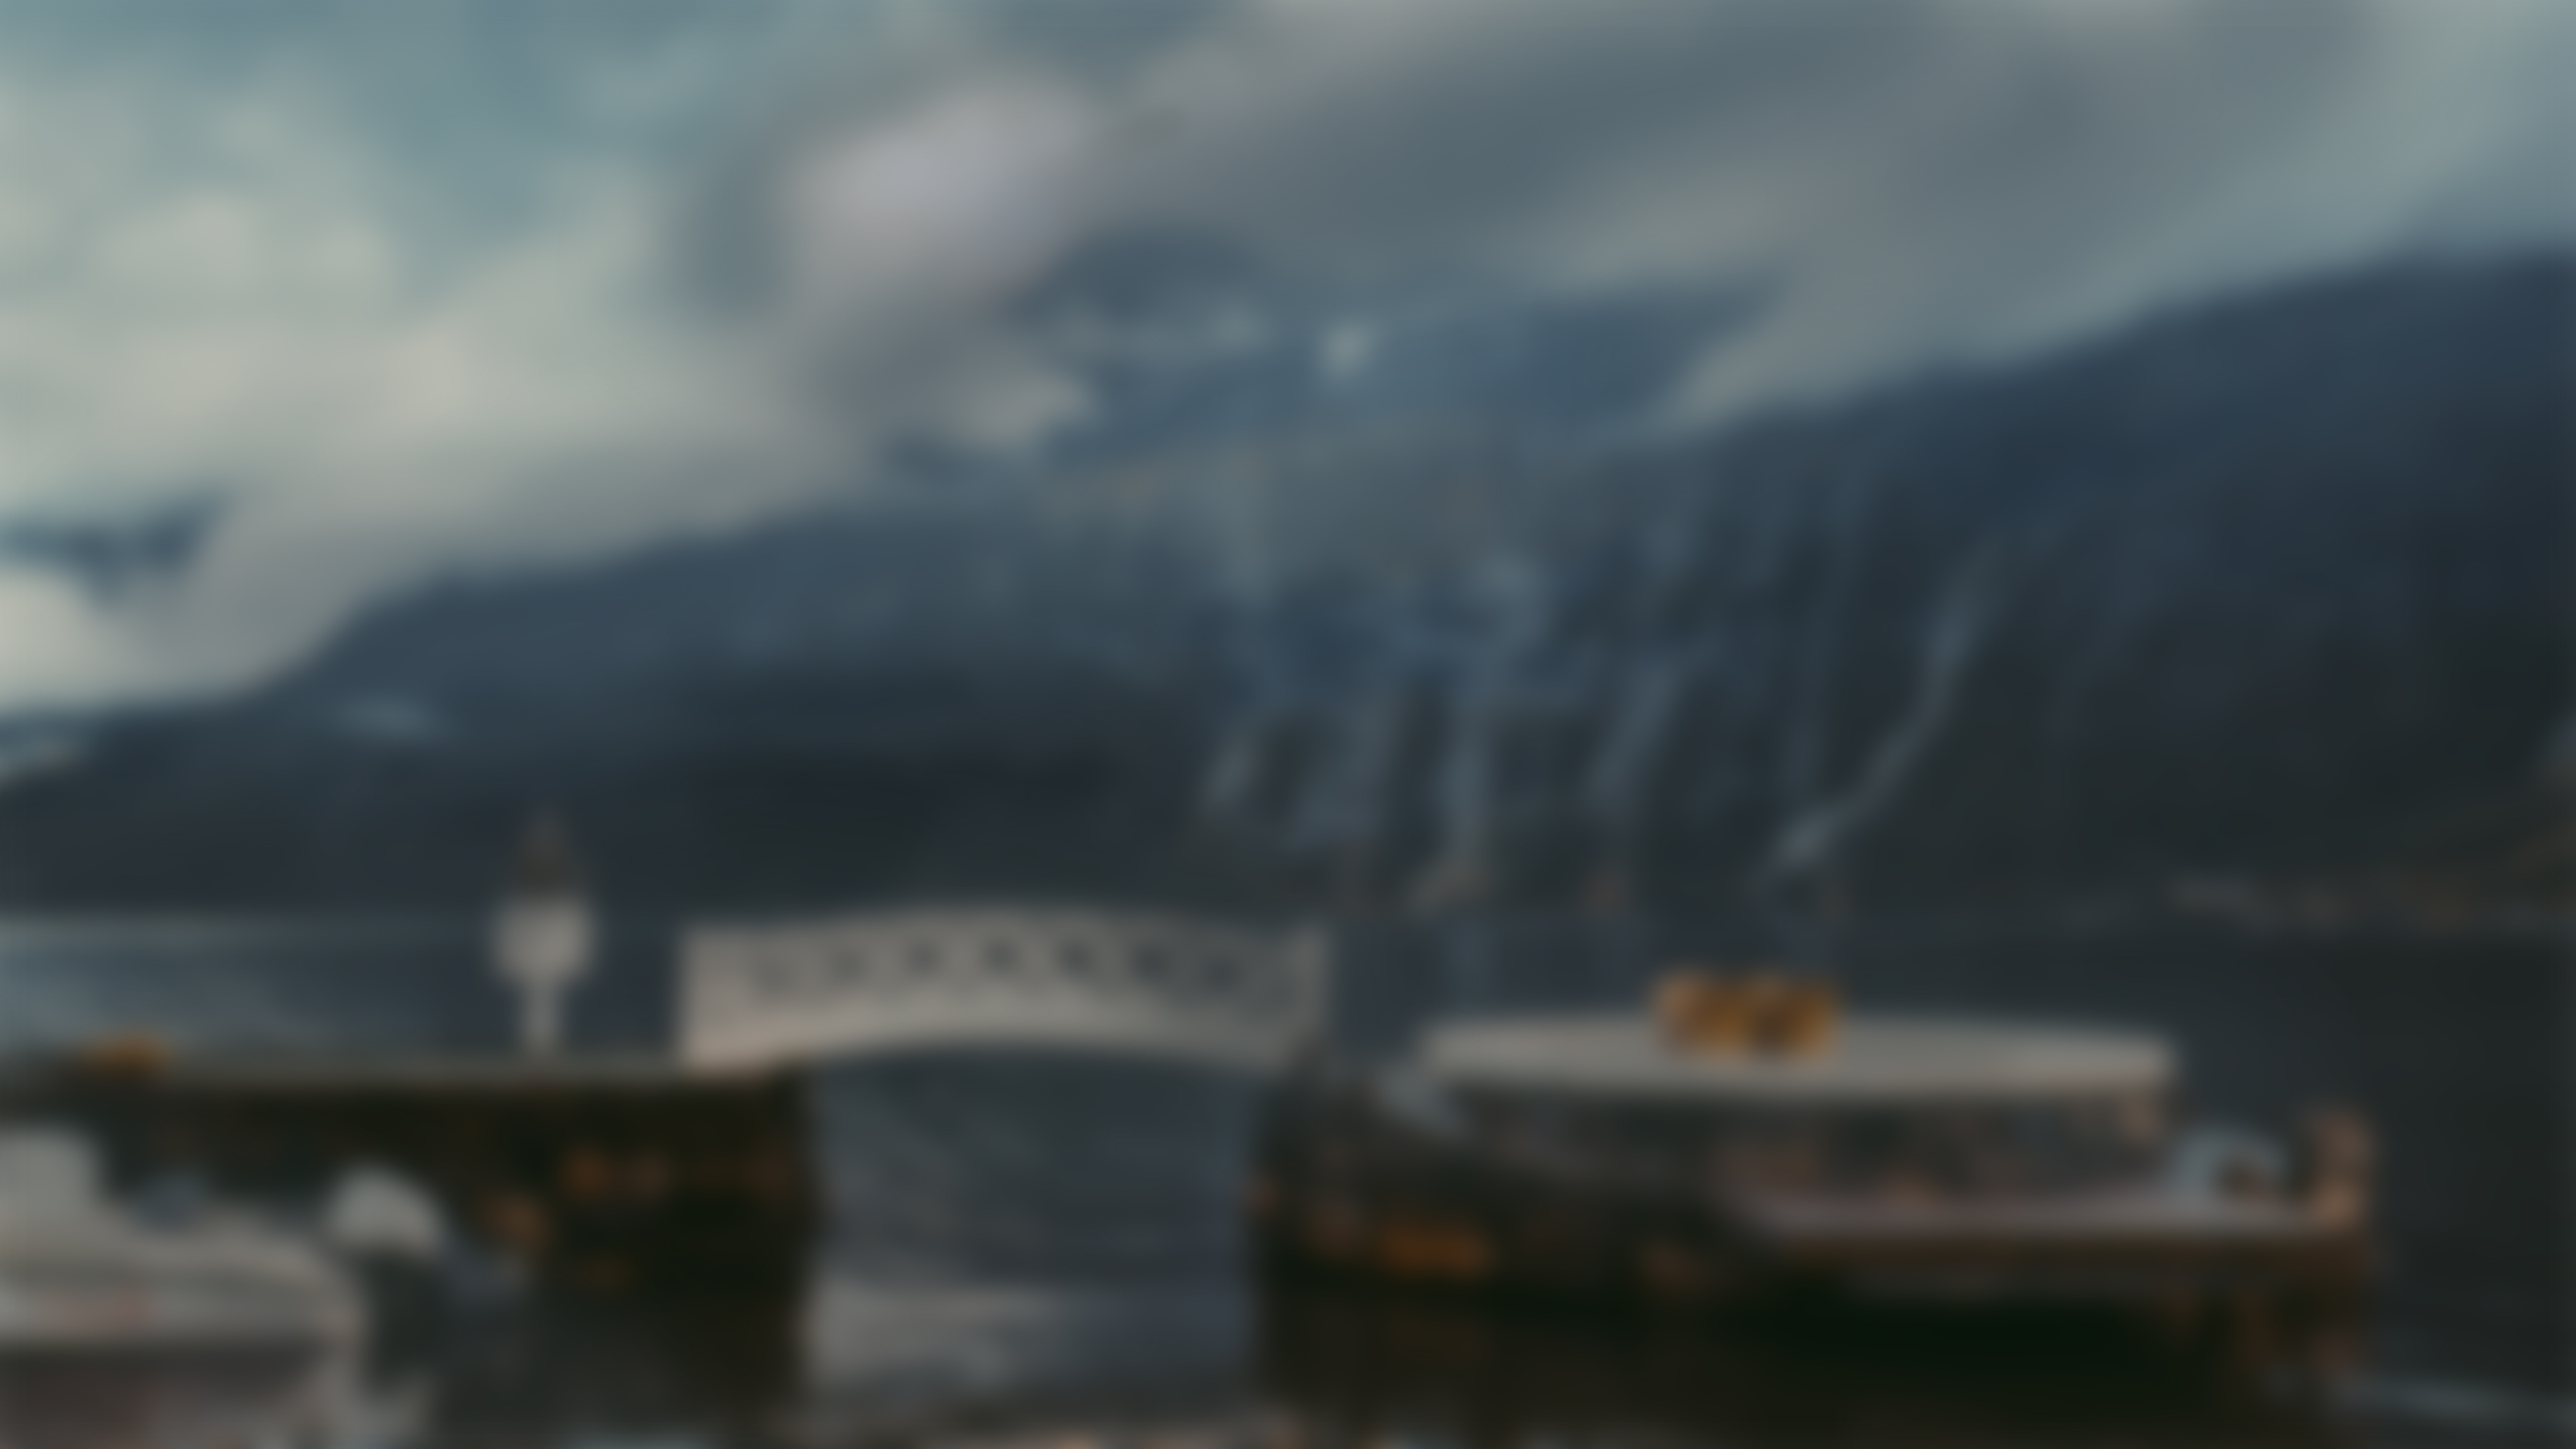
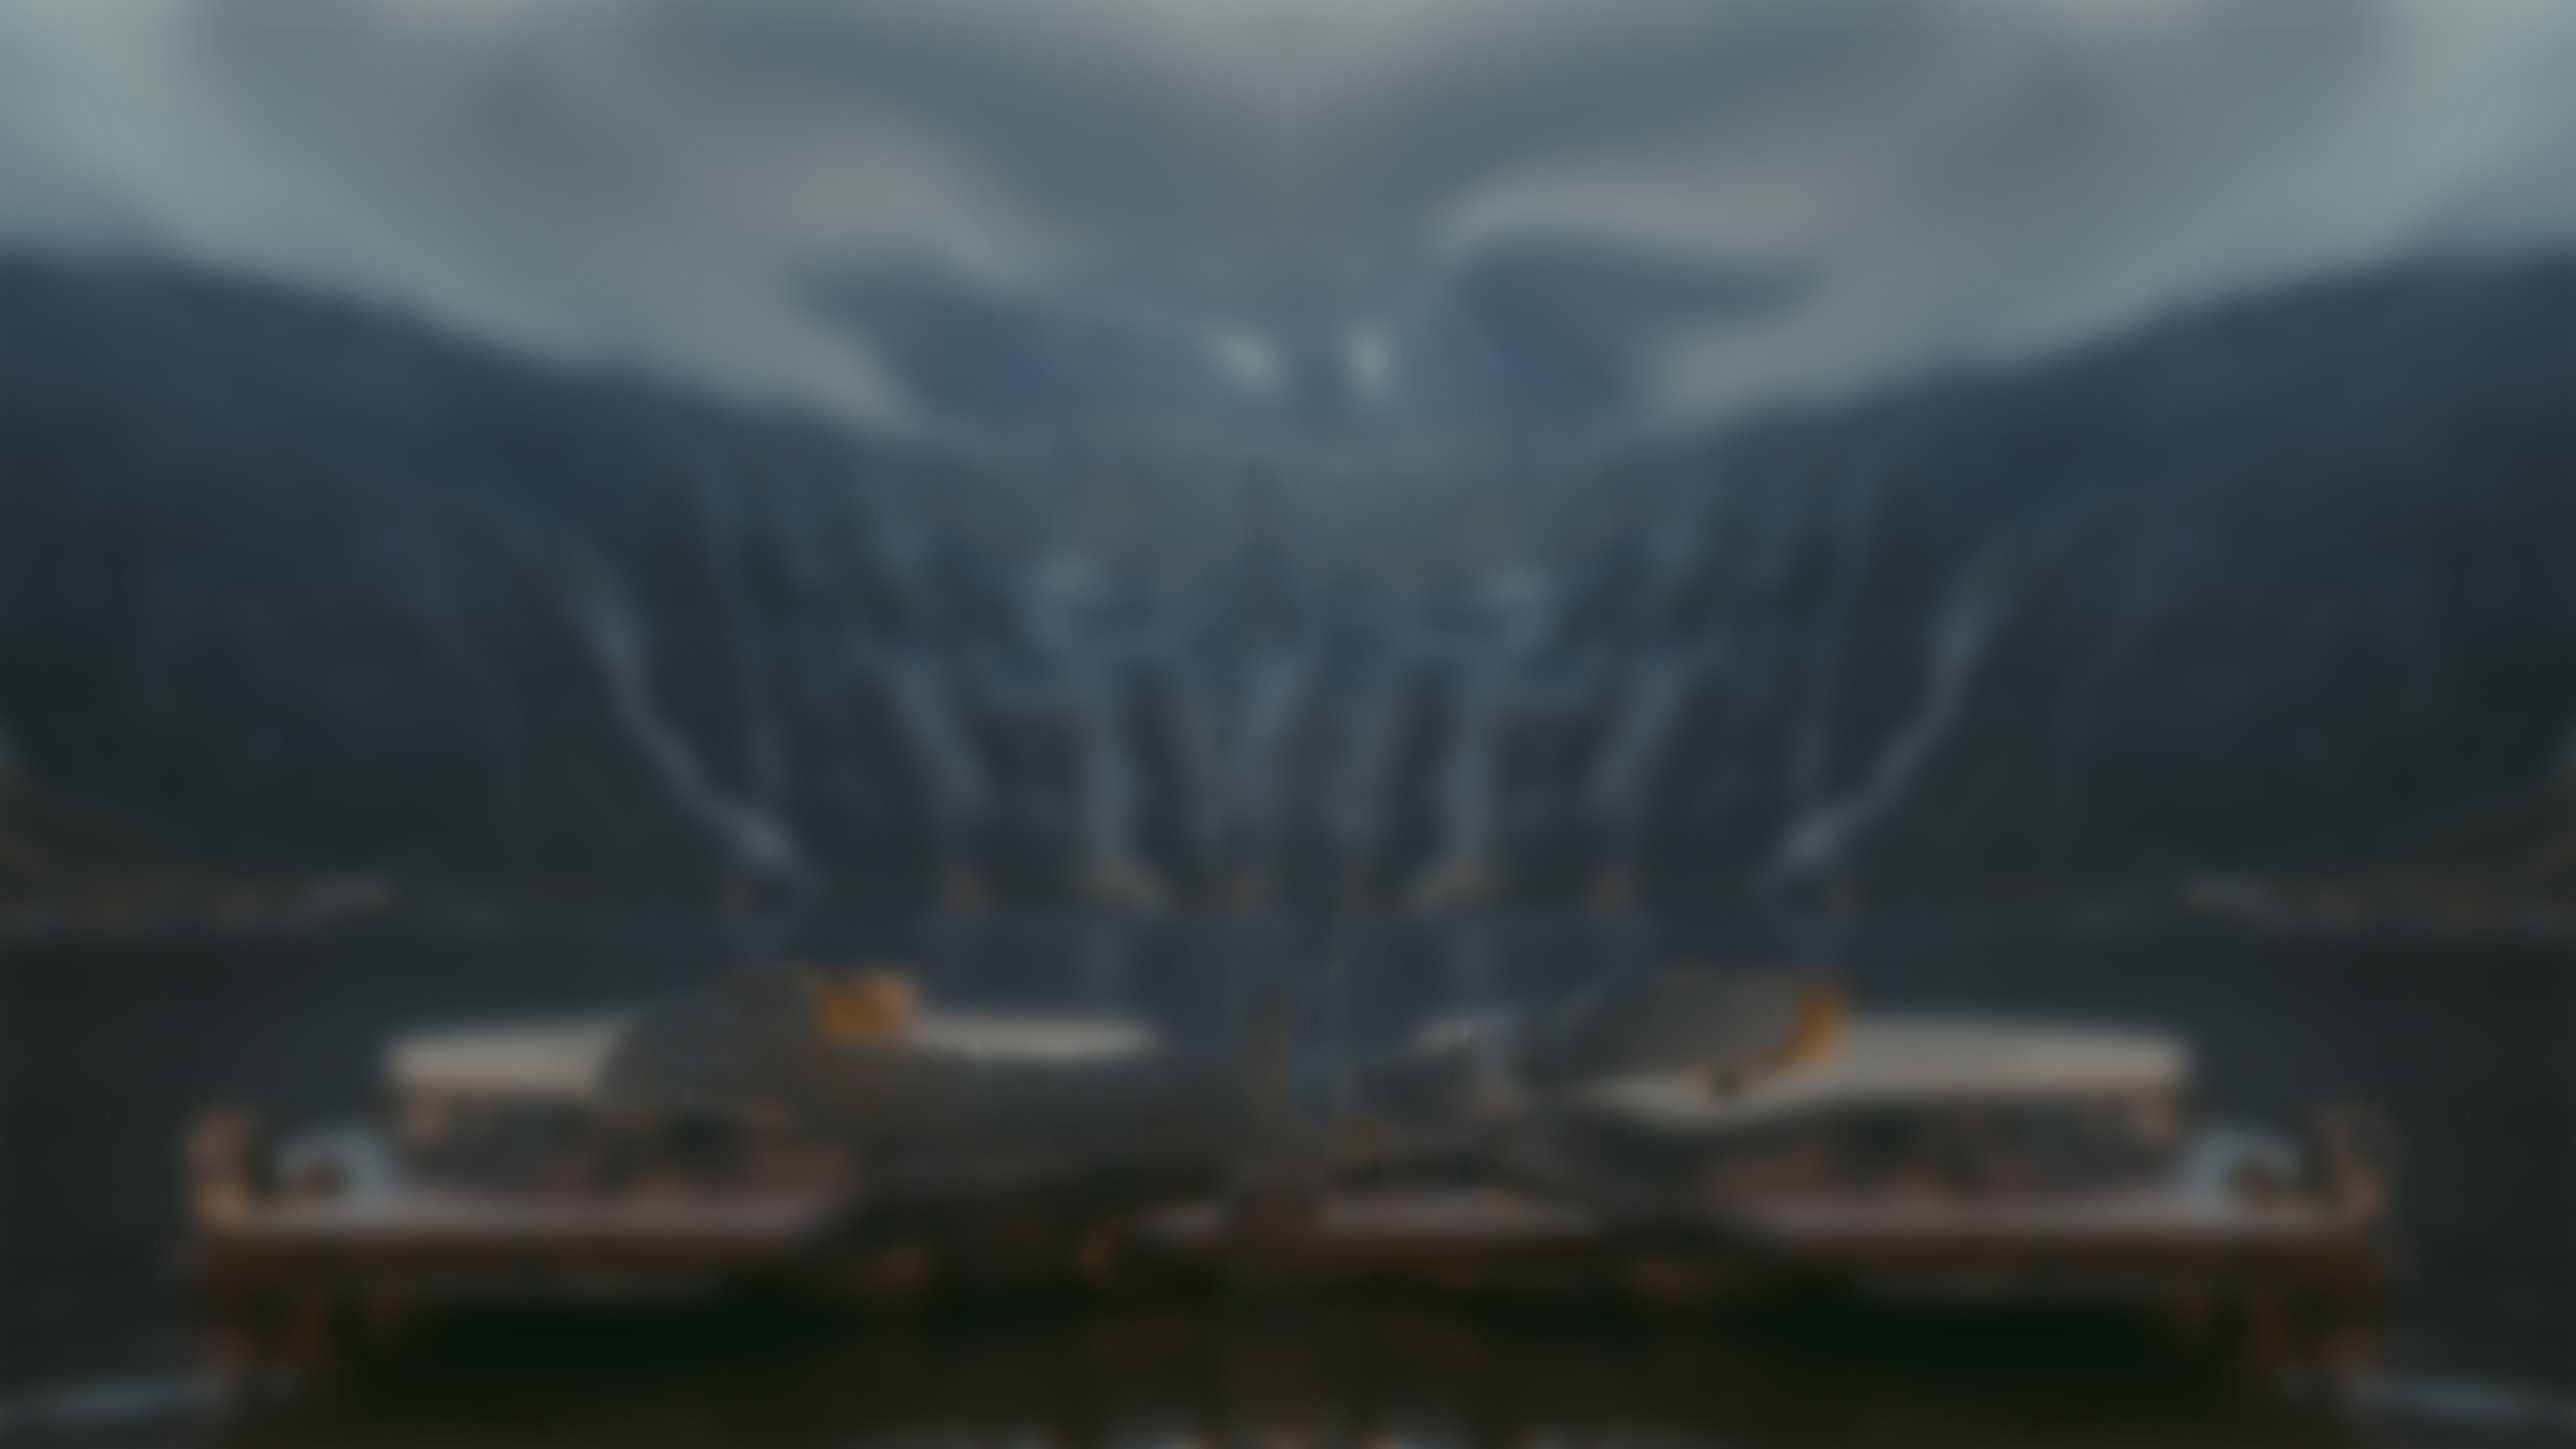
Scrolling background and more API's! 👀
- Added news feed and API
- Added contact me component with Telegram API
- Added slow scrolling background

diff --git a/src/components/contactMe.vue b/src/components/contactMe.vue
@@ -1,0 +1,89 @@
+<template>
+<div>
+    <h3>{{error}}</h3>
+        <p styl>Your Email Address</p>
+      <div><input style="width: 80%; text-align: center" class="inputBox" v-model="contact"/></div>
+      <p>Your Message</p>
+      <div><textarea style="width: 80%" class="inputBox" rows="4" v-model="message"></textarea></div>
+      <div><input v-model="check" style="display: none"/></div>
+      <button class="myButton" v-on:click="send" style="margin-top: 1rem">
+        Send
+      </button>
+</div>
+
+
+</template>
+
+<script>
+export default {
+  name: 'ContactCard',
+  data() {
+      return{
+          message: '',
+          contact: '',
+          check: '',
+          error: 'Contact Me'
+      }
+      
+  },
+   methods: {
+    validateEmail: function (email)
+       {
+            var re = /\S+@\S+\.\S+/;
+            return re.test(email);   
+       },
+    send: function () {
+        //I use a hidden check field as rudimentary way to prevent bots from abusing the contact field
+        if (!this.message) {
+        this.error = 'A message is required.';
+        return
+        }
+        if (!this.contact || !this.validateEmail(this.contact)) {
+        this.error = 'A valid email address is required.';
+        return
+        }
+        if(this.check == '')
+        {
+            this.error = 'Thanks for the message!';
+            fetch(process.env.VUE_APP_TELEGRAM_API_URL + this.contact + ' sent message: ' + this.message)
+            this.message = '';
+            this.contact = '';
+        }
+      
+      }
+    }
+}
+
+</script>
+
+<!-- Add "scoped" attribute to limit CSS to this component only -->
+<style scoped> 
+.myButton {
+	box-shadow:inset 0px 1px 0px 0px #ffffff;
+	background-color:#ffffff;
+	border-radius:2px;
+	border:1px solid #dcdcdc;
+	display:inline-block;
+	cursor:pointer;
+	color:#666666;
+	font-family:Arial;
+	font-size:15px;
+	font-weight:bold;
+	padding:6px 24px;
+	text-decoration:none;
+	text-shadow:0px 1px 0px #ffffff;
+}
+.inputBox{
+    box-shadow:inset 0px 1px 0px 0px #ffffff;
+	background-color:#ffffff;
+	border-radius:2px;
+	border:1px solid #dcdcdc;
+	display:inline-block;
+	color:#666666;
+	padding:6px 24px;
+}
+.status{
+    font-size: 120%;
+    color: rgb(0, 122, 179);
+}
+</style>

diff --git a/public/styles.css b/public/styles.css
@@ -1,10 +1,11 @@
 body {
-	background: rgb(83,227,166);
-	background: linear-gradient(90deg, rgba(83,227,166,1) 0%, rgba(80,163,162,1) 100%);
 	margin: 0%;
 	padding: 0%;
+	height: auto;
 	scrollbar-width: none;  /* Firefox */
+	
 }
+
 
 ::-webkit-scrollbar {
     width: 0px;
@@ -15,13 +16,30 @@ body {
 	scrollbar-width: none; /* Firefox implementation */
 }
 
-body {
-	background-image: url("./background.jpg");
-}
-
 .Background {
 	justify-content: center;
+	/* The image used */
+	background: gray url("./background.jpg") repeat 0 0;
+
+	/* Set a specific height */
+	height: 100%;
+	margin: 0;
+	width: 100vw;
+	padding: 0%;
+	/* animation*/
+	box-sizing: border-box;
+	-webkit-animation: slide 120s linear infinite;
+	background-size: cover;
+	
 }
+
+  @-webkit-keyframes slide {
+	  from { background-position: 0 0; }
+	  to { background-position: -150vw 0; }
+  }
+  
+
+
 
 /*https://mastery.games/post/tile-layouts/*/
 .grid {
@@ -32,7 +50,6 @@ body {
 	/*allows responsive scaling of grid*/
 	grid-template-columns: repeat(auto-fit, minmax(20rem, 1fr));
 	grid-auto-flow: dense;
-	margin-bottom: 5vh;
 	max-width: 95vw;
 	overflow: hidden;
   }

diff --git a/src/components/newsComponent.vue b/src/components/newsComponent.vue
@@ -1,0 +1,46 @@
+<template>
+<div class="container">
+    <h3>News by NewsAPI</h3>
+    <br/>
+  <div v-for="item in newsItems" :key="item.title">
+      <div class="newsCard">
+          <a v-bind:href =item.url style="text-decoration: none; color: inherit;">
+              {{ item.title }}
+          </a>
+      </div>
+  </div>
+</div>
+    
+</template>
+
+<script>
+export default {
+  name: 'NewsComponent',
+  data: function () {
+    return {
+      newsItems: []
+    }
+  },
+  created: async function () {
+      const newsInfo = await fetch(process.env.VUE_APP_NEWS_API_URL + "top-headlines?country=us&apiKey=" + process.env.VUE_APP_NEWS_API_KEY);
+        var newsJSON = await newsInfo.json();
+        console.log(newsJSON.articles)
+        this.newsItems = newsJSON.articles.slice(0, 5);
+  }}
+</script>
+
+<!-- Add "scoped" attribute to limit CSS to this component only -->
+<style scoped>
+.newsCard{
+    text-align: left;
+    border: 1px rgb(105, 105, 105) none;
+    border-radius: 5px;
+    margin-bottom: 1rem;
+    padding: 2px;
+}
+
+.newsCard:hover
+{
+    color: rgb(0, 122, 179);
+}
+</style>

diff --git a/src/App.vue b/src/App.vue
@@ -10,6 +10,8 @@
           <git-card v-bind:repoName="startpage"/>
           <git-card v-bind:repoName="portfolio"/>
           <stats-card class="fullwide tall"/>
+          <news-component/>
+          <contact-me/>
           
 
         </div>
@@ -23,6 +25,8 @@ import ProfileCard from './components/profilecard.vue'
 import StatsCard from './components/statscard.vue'
 import GitCard from './components/gitshowcase.vue'
 import BlankComponent from './components/blankComponent.vue'
+import NewsComponent from './components/newsComponent.vue'
+import ContactMe from './components/contactMe.vue'
 
 
 export default {
@@ -31,7 +35,9 @@ export default {
     ProfileCard,
     StatsCard,
     GitCard,
-    BlankComponent
+    BlankComponent,
+    NewsComponent,
+    ContactMe
   },
   data() {
     return {
@@ -53,5 +59,6 @@ export default {
   -webkit-font-smoothing: antialiased;
   -moz-osx-font-smoothing: grayscale;
   text-align: center;
+  color:#505050 !important;
 }
 </style>

diff --git a/public/index.html b/public/index.html
@@ -11,11 +11,6 @@
     <title><%= htmlWebpackPlugin.options.title %></title>
   </head>
   <body>
-    <noscript>
-      <strong>We're sorry but <%= htmlWebpackPlugin.options.title %> doesn't work properly without JavaScript enabled. Please enable it to continue.</strong>
-    </noscript>
     <div id="app"></div>
-
-    <!-- built files will be auto injected -->
   </body>
 </html>
